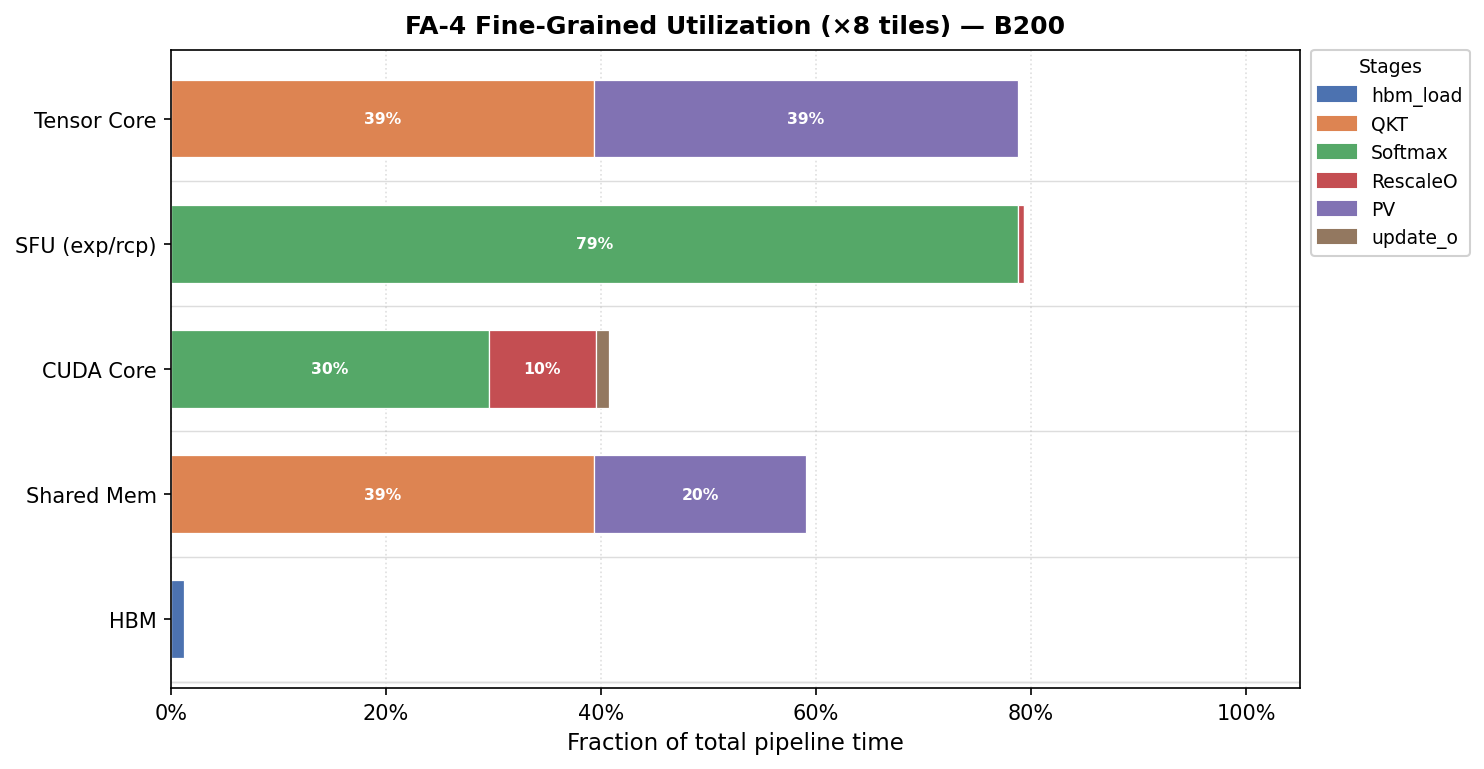
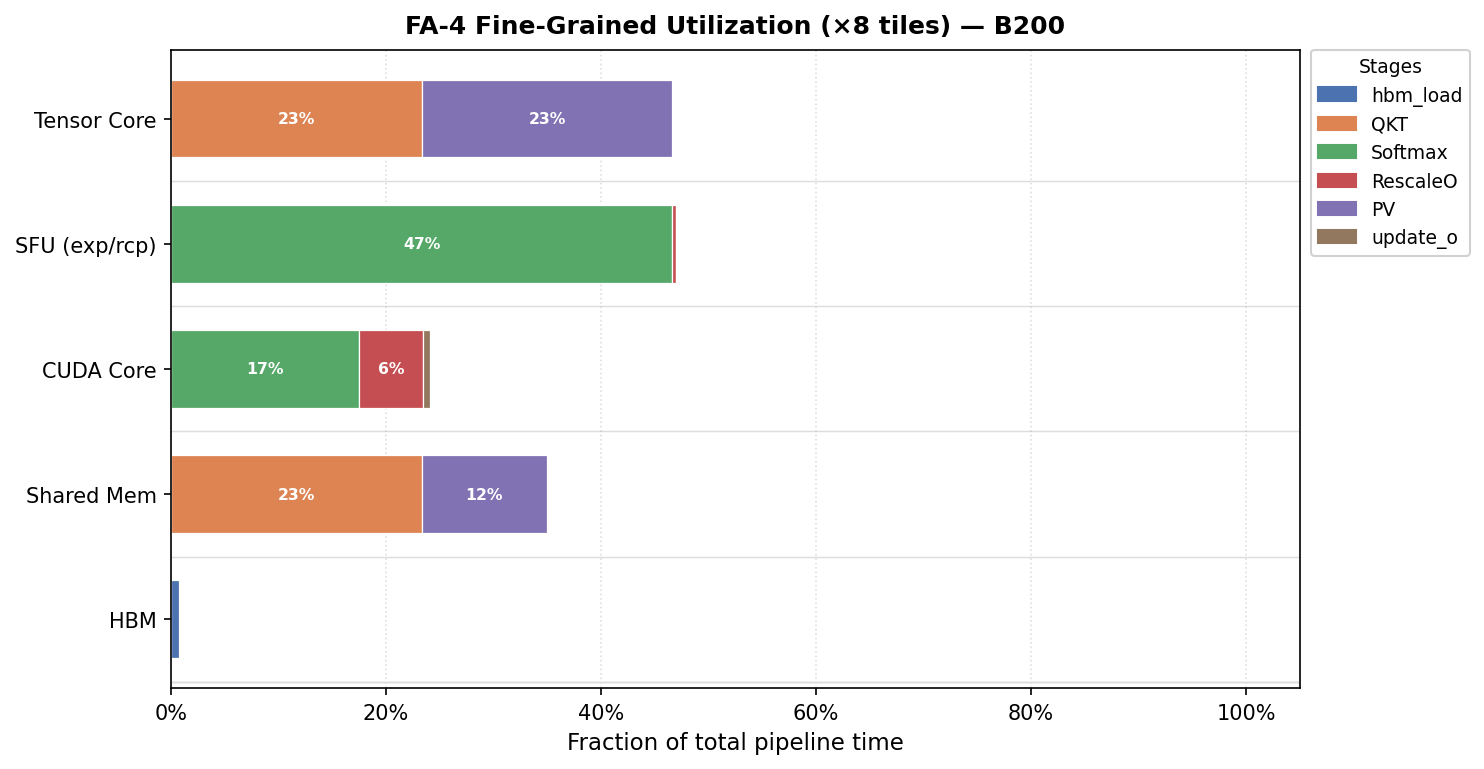
Correct single-WG pipeline: sequential QKT→Softmax→RescaleO→PV per tile
Revert to algorithmic dependency: QKT[i] waits for PV[i-1] (not QKT[i-1]).
This enforces:
  1. SMEM constraint (256KB): only current K+V (64KB) + pre-load (64KB)
     = 128KB in SMEM at any time; no V-tile accumulation.
  2. Correct data flow: PV[i] uses V[i] that was loaded by hbm_load[i]
     and stays in SMEM until PV[i] completes.
  3. SFU/CUDA core naturally serialized: Softmax[i+1] follows QKT[i+1]
     which follows PV[i], so no explicit cross-tile SFU dep needed.

Timeline: single WG shows TC idle during Softmax (1024/2178 ≈ 47% idle).
FA-4 fills this gap with a second warp group — the slots visible here
are exactly what WG-L occupies in the reference diagram.

diff --git a/examples/fa4_fine_grained_pipeline.py b/examples/fa4_fine_grained_pipeline.py
@@ -151,50 +151,50 @@ update_o_wl = Workload(
 stages: list[Stage] = []
 
 for i in range(n_tiles):
-    # HBM load serialized (but fast: 16 cyc, starts at cycle 0 for tile 0)
+    # HBM load: serialized (only one DMA engine), but async w.r.t. compute.
+    # hbm_load[i+1] starts right after hbm_load[i] finishes (16 cyc each),
+    # so all 8 loads complete in 128 cycles — fully hidden inside tile 0's
+    # 2178-cycle compute window.
     stages.append(Stage(
         name=f"hbm_load[{i}]",
         workload=hbm_load_wl,
         depends_on=[f"hbm_load[{i-1}]"] if i > 0 else [],
     ))
 
-    # QKT: serialized only on tensor_core (QKT[i-1]), NOT on PV[i-1]
+    # QKT[i]: algorithmic dep on hbm_load[i] (K[i] in SMEM) AND PV[i-1]
+    # (TC free, AND SMEM double-buffer slot freed so K[i]+V[i] can reside).
+    # SMEM check: at QKT[i], active K[i]+V[i] (64KB) + pre-load K[i+1]+V[i+1]
+    # (64KB) = 128KB << 256KB.  Only one V tile stays in SMEM at a time.
     qkt_deps = [f"hbm_load[{i}]"]
     if i > 0:
-        qkt_deps.append(f"QKT[{i-1}]")   # ← TC serialized behind prev QKT
+        qkt_deps.append(f"PV[{i-1}]")   # TC free + SMEM buffer freed by PV
     stages.append(Stage(
         name=f"QKT[{i}]",
         workload=qkt_wl,
         depends_on=qkt_deps,
     ))
 
-    # Softmax[i]: needs QKT[i] scores AND SFU/CUDA Core to be free.
-    # SFU + CUDA Core are exclusive: must wait for RescaleO[i-1] to finish.
-    softmax_deps = [f"QKT[{i}]"]
-    if i > 0:
-        softmax_deps.append(f"RescaleO[{i-1}]")   # ← SFU serialized
+    # Softmax[i]: needs S[i] scores from QKT[i].  SFU/CUDA are naturally
+    # free because Softmax[i-1] ran inside the previous tile's pipeline.
     stages.append(Stage(
         name=f"Softmax[{i}]",
         workload=softmax_wl,
-        depends_on=softmax_deps,
+        depends_on=[f"QKT[{i}]"],
     ))
+
+    # RescaleO[i]: needs m_new/l from Softmax[i].
     stages.append(Stage(
         name=f"RescaleO[{i}]",
         workload=rescale_o_wl,
         depends_on=[f"Softmax[{i}]"],
     ))
 
-    # PV: needs RescaleO[i] (data) AND TC to be free
-    #   PV[0] waits for the last QKT to free the tensor_core
-    #   PV[i>0] waits for PV[i-1] (TC sequential)
-    if i == 0:
-        pv_deps = [f"RescaleO[0]", f"QKT[{n_tiles - 1}]"]
-    else:
-        pv_deps = [f"RescaleO[{i}]", f"PV[{i-1}]"]
+    # PV[i]: needs P[i] (from RescaleO[i]) and V[i] in SMEM.
+    # TC is free: last TC user was QKT[i], which ended before Softmax[i].
     stages.append(Stage(
         name=f"PV[{i}]",
         workload=pv_wl,
-        depends_on=pv_deps,
+        depends_on=[f"RescaleO[{i}]"],
     ))
 
 stages.append(Stage(
